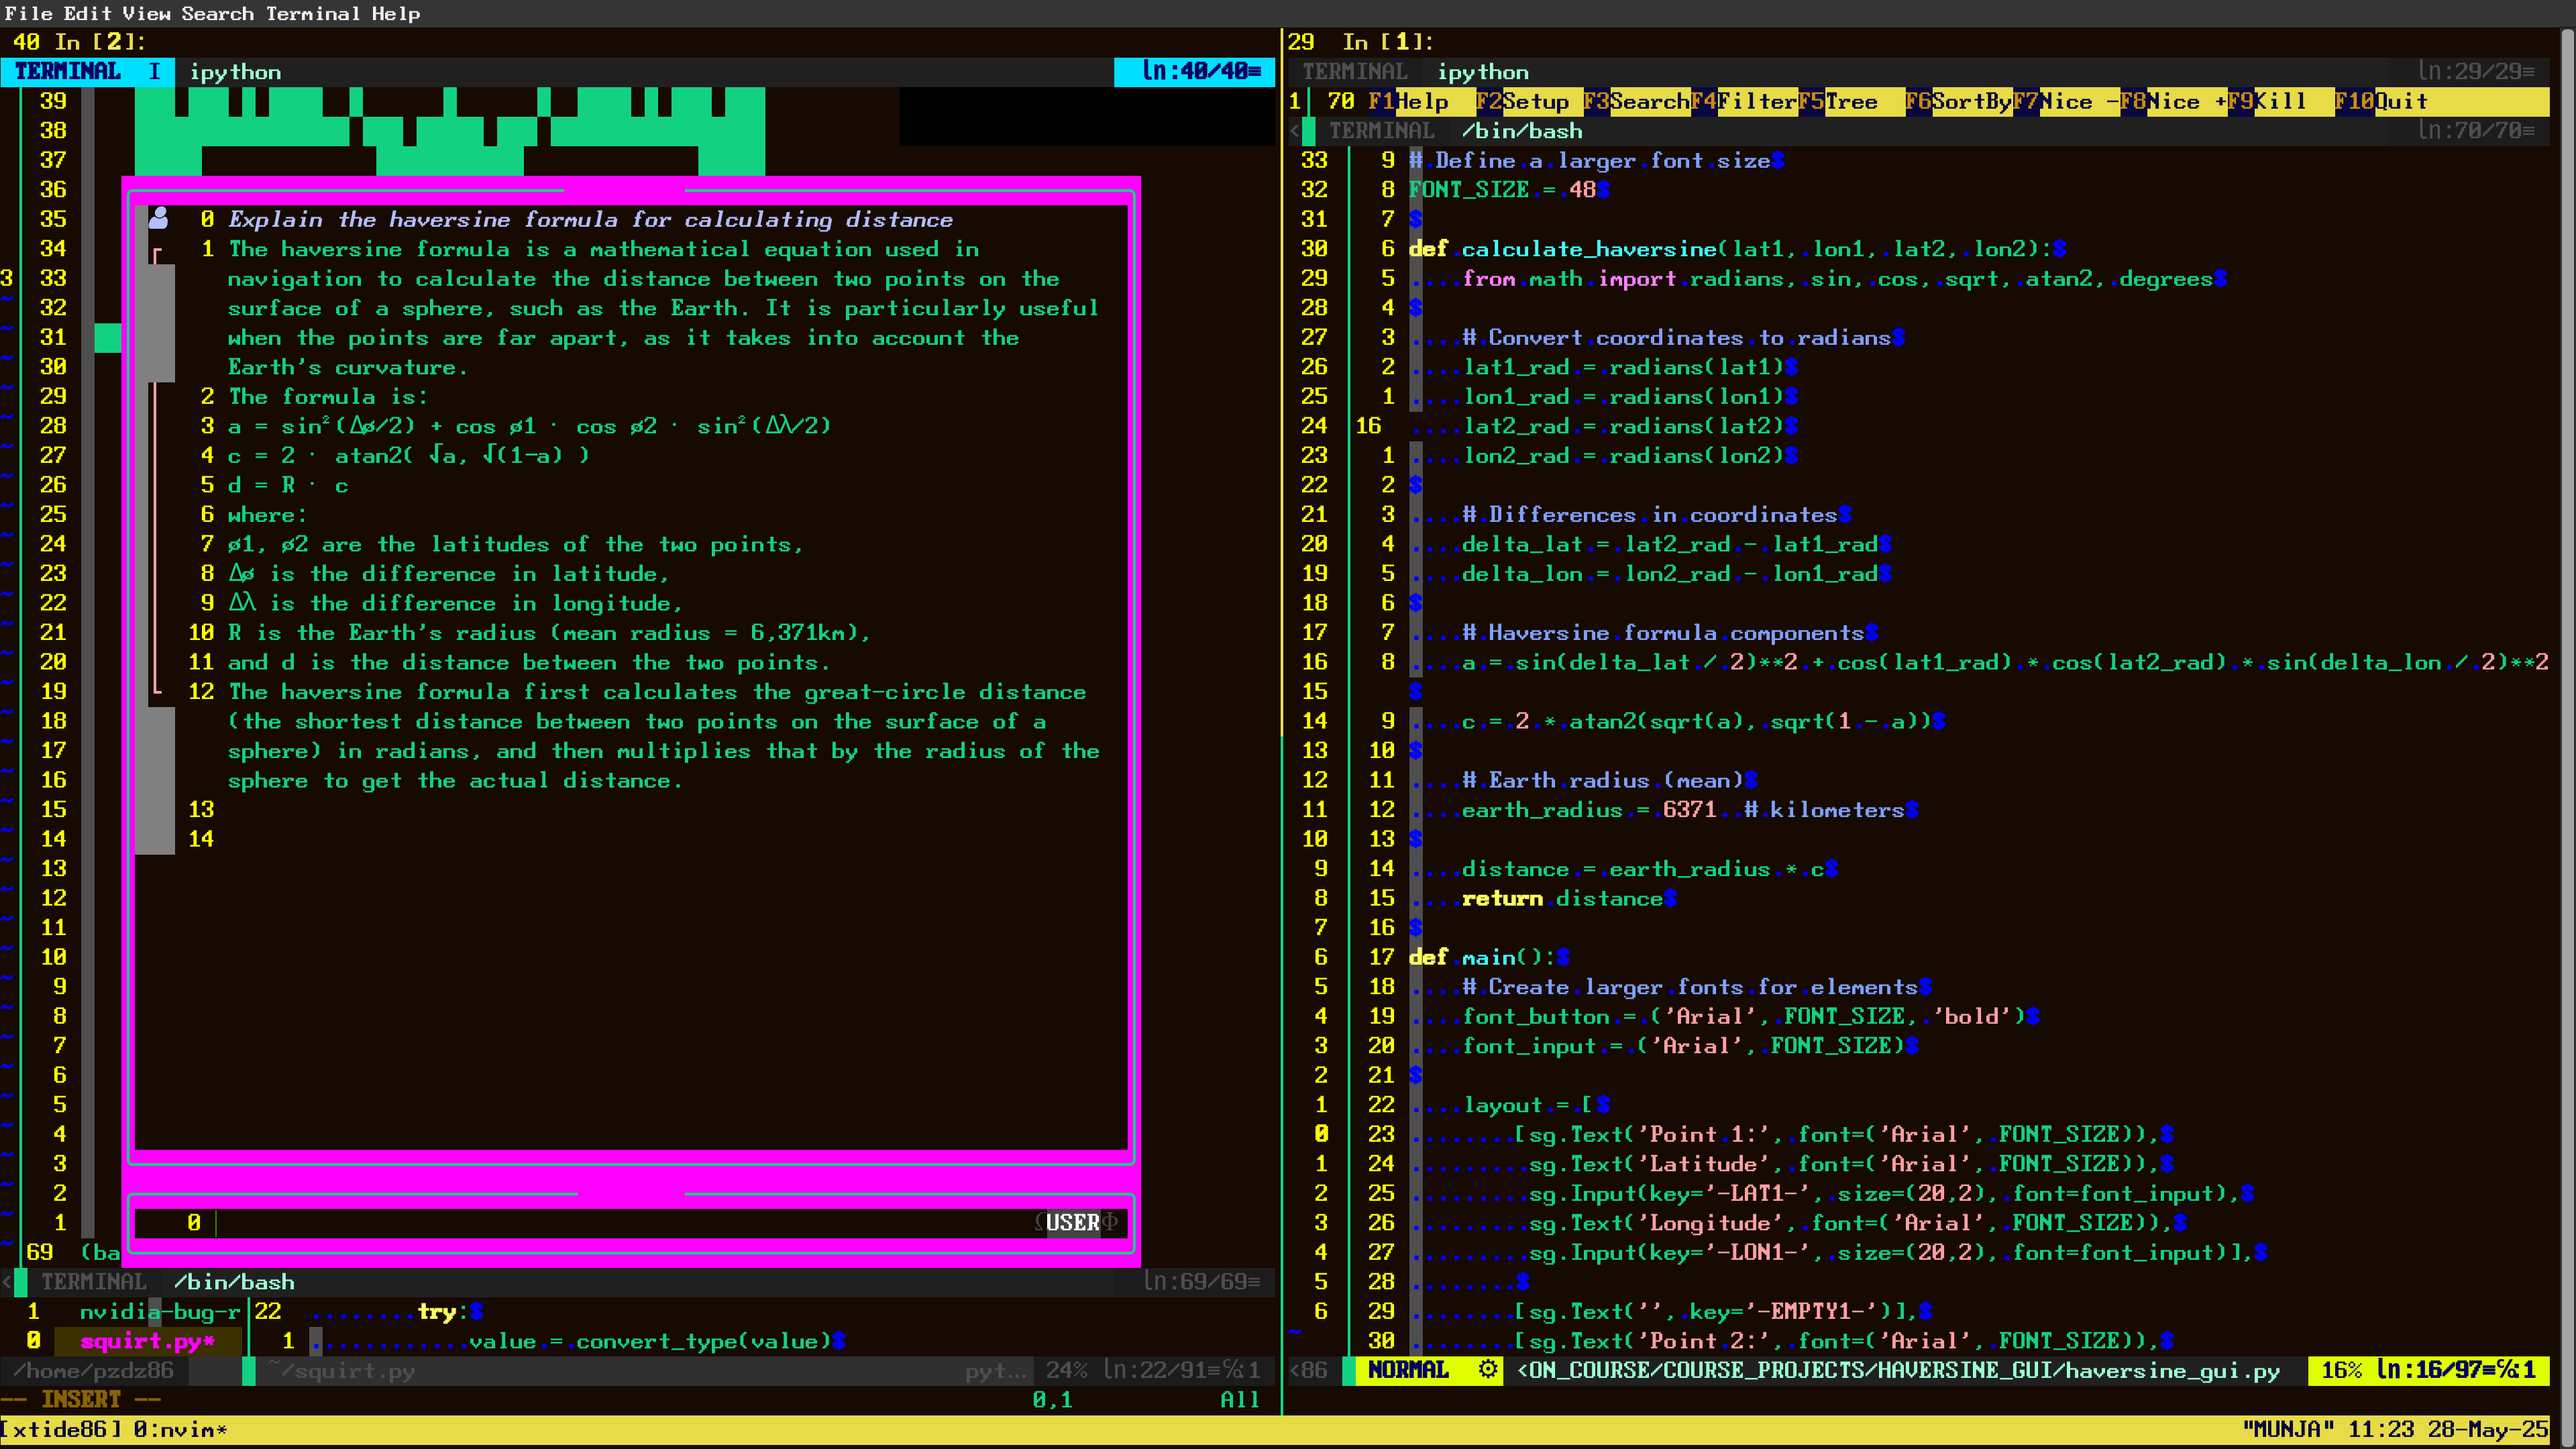
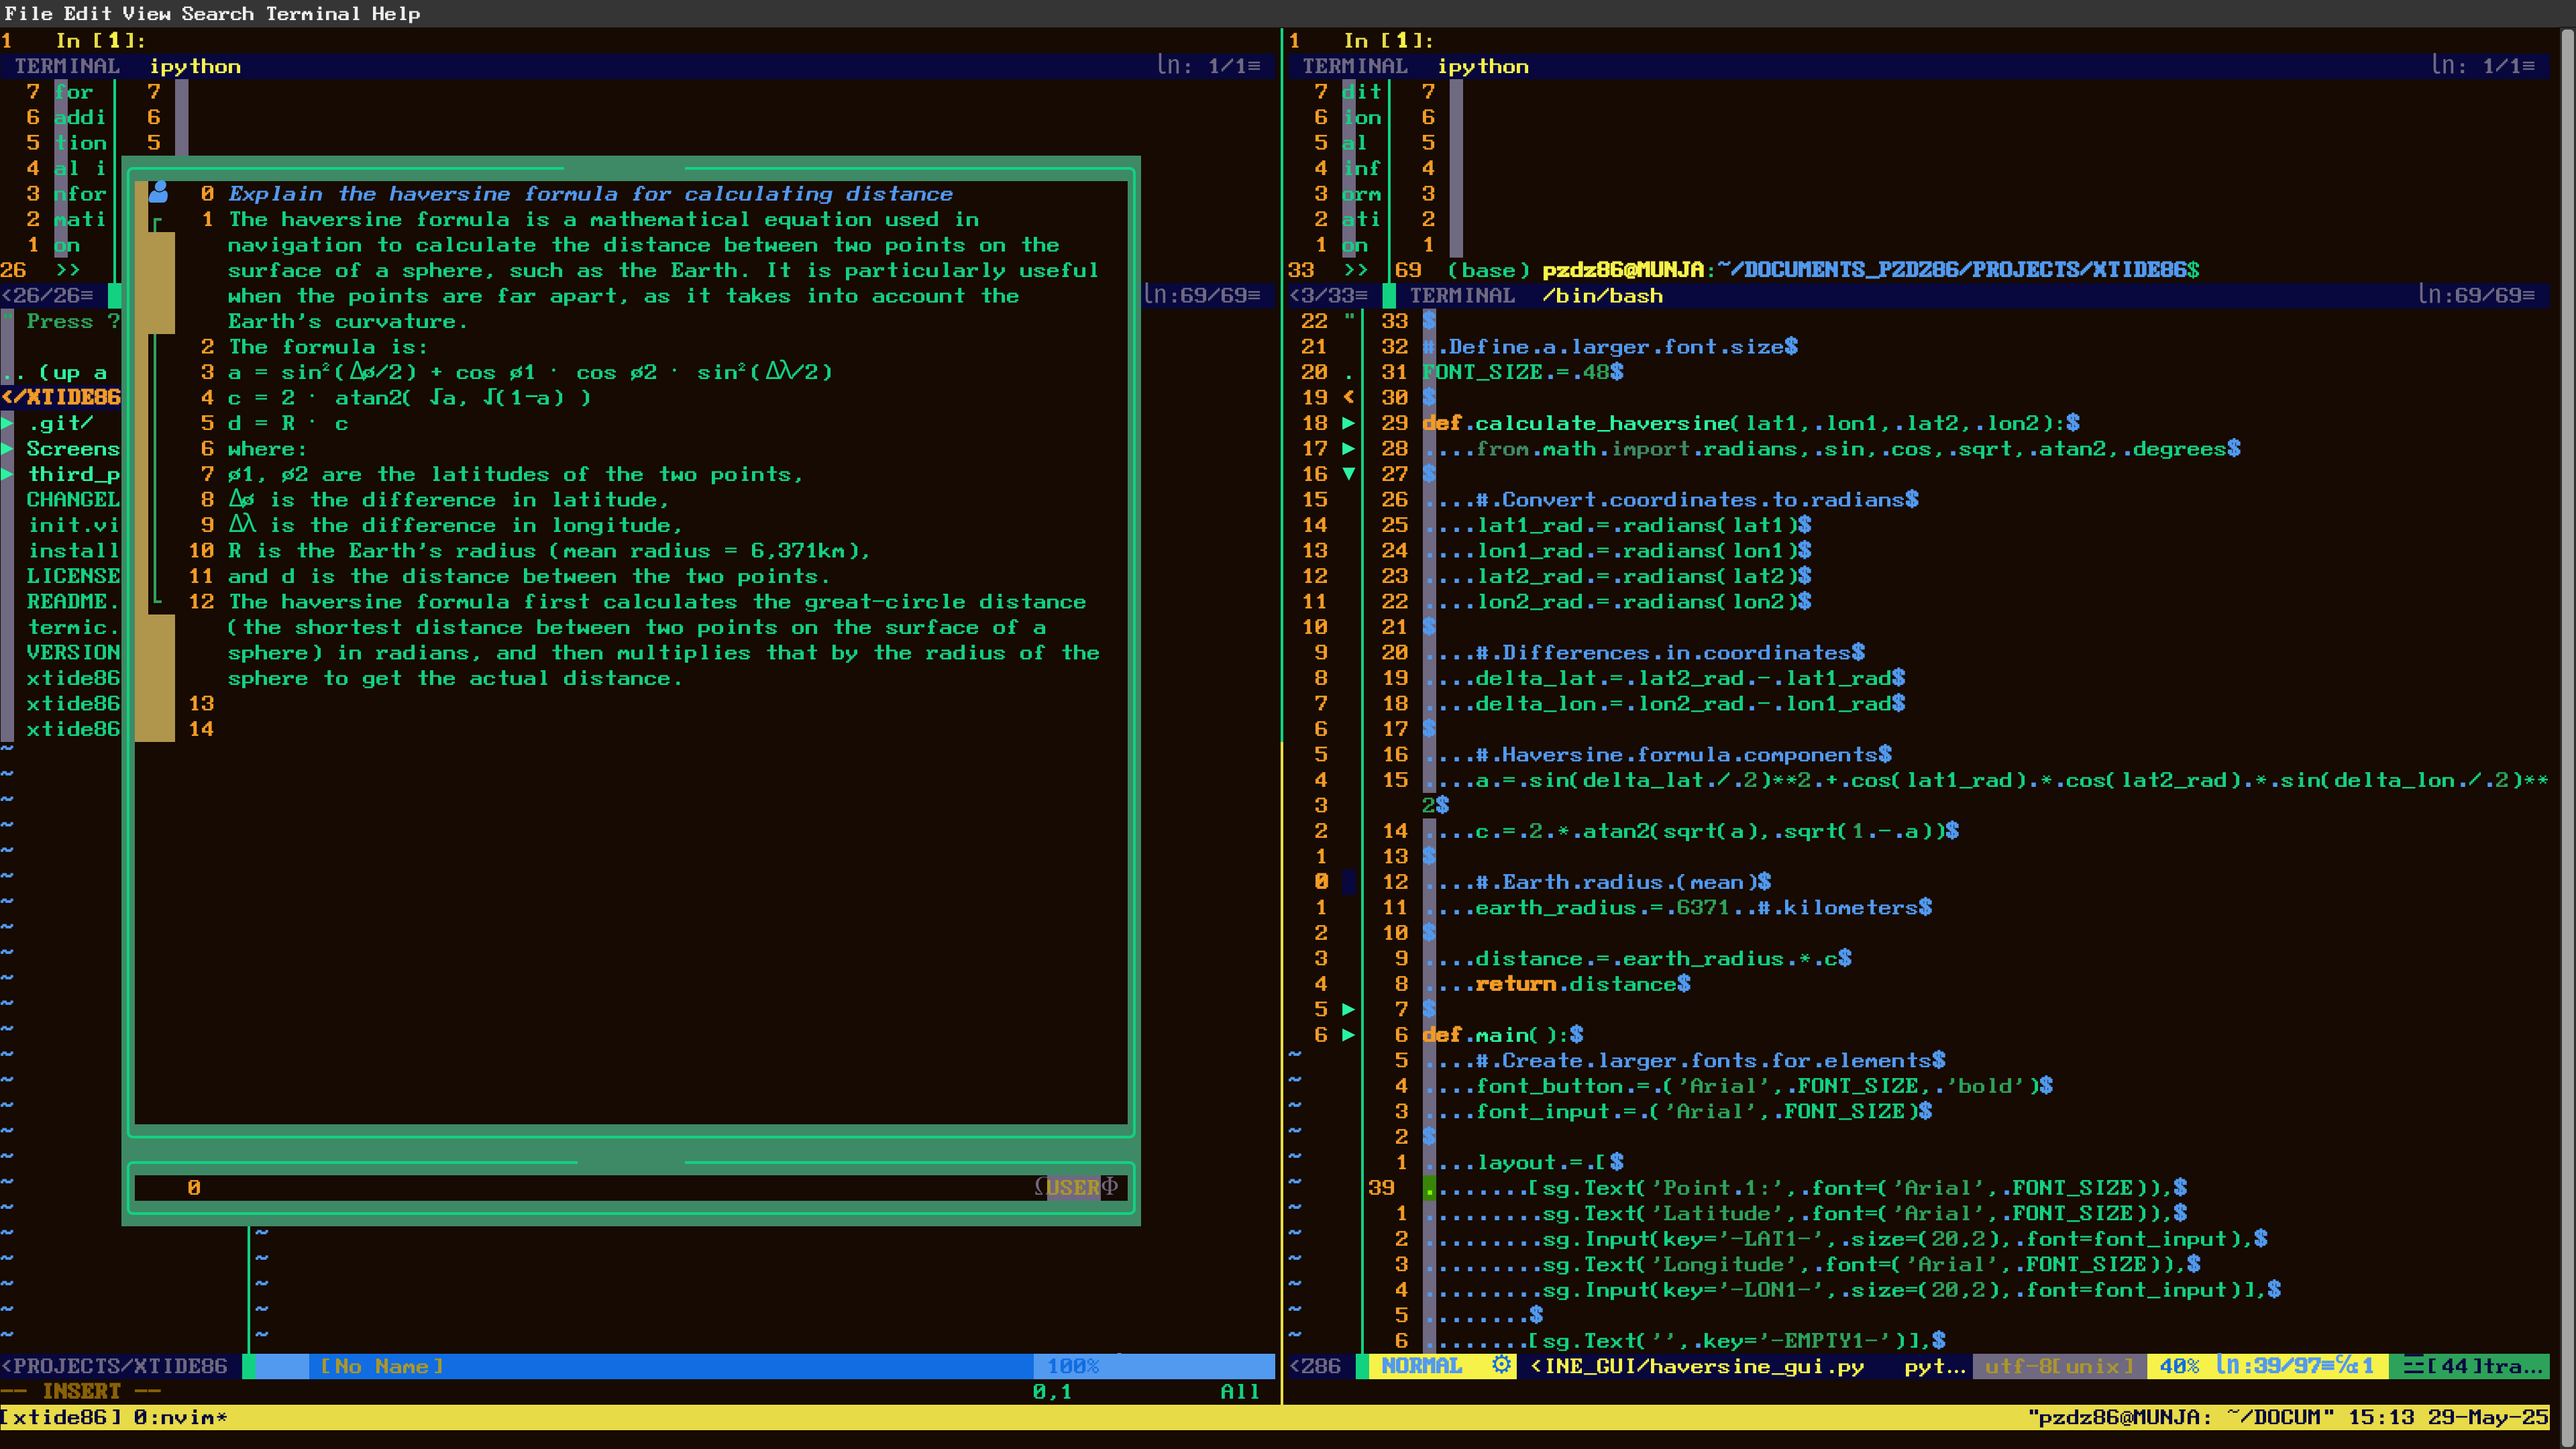
Updated screenshot8 to default color profile

diff --git a/README.md b/README.md
@@ -288,7 +288,7 @@ Pull requests, stars, and forks welcome
 ### Efficient workflow
 ![Workflow](Screenshots/Screenshot7.png)
 
-### OpenAI Integration (Optional)
+### OpenAI Integration shown in default color palette -Optional
 ![ChatGPT](Screenshots/Screenshot8.png)
 
 ## Built With
